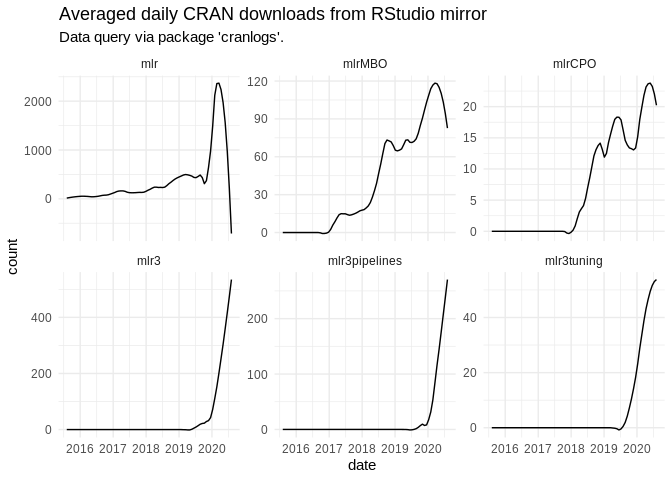
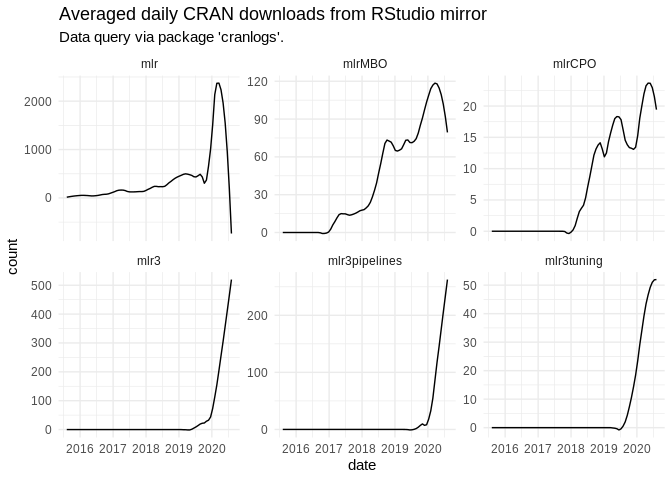
Deploy from Travis build 280 [ci skip]
Build URL: https://travis-ci.org/mlr-org/mlrcranlog/builds/715358534
Commit: 0ef278e1f1e07a47119a020620871733d3455885

diff --git a/README.md b/README.md
@@ -9,7 +9,7 @@
 
 Created on
 
-    ## [1] "2020-08-05"
+    ## [1] "2020-08-06"
 
 <details>
 
